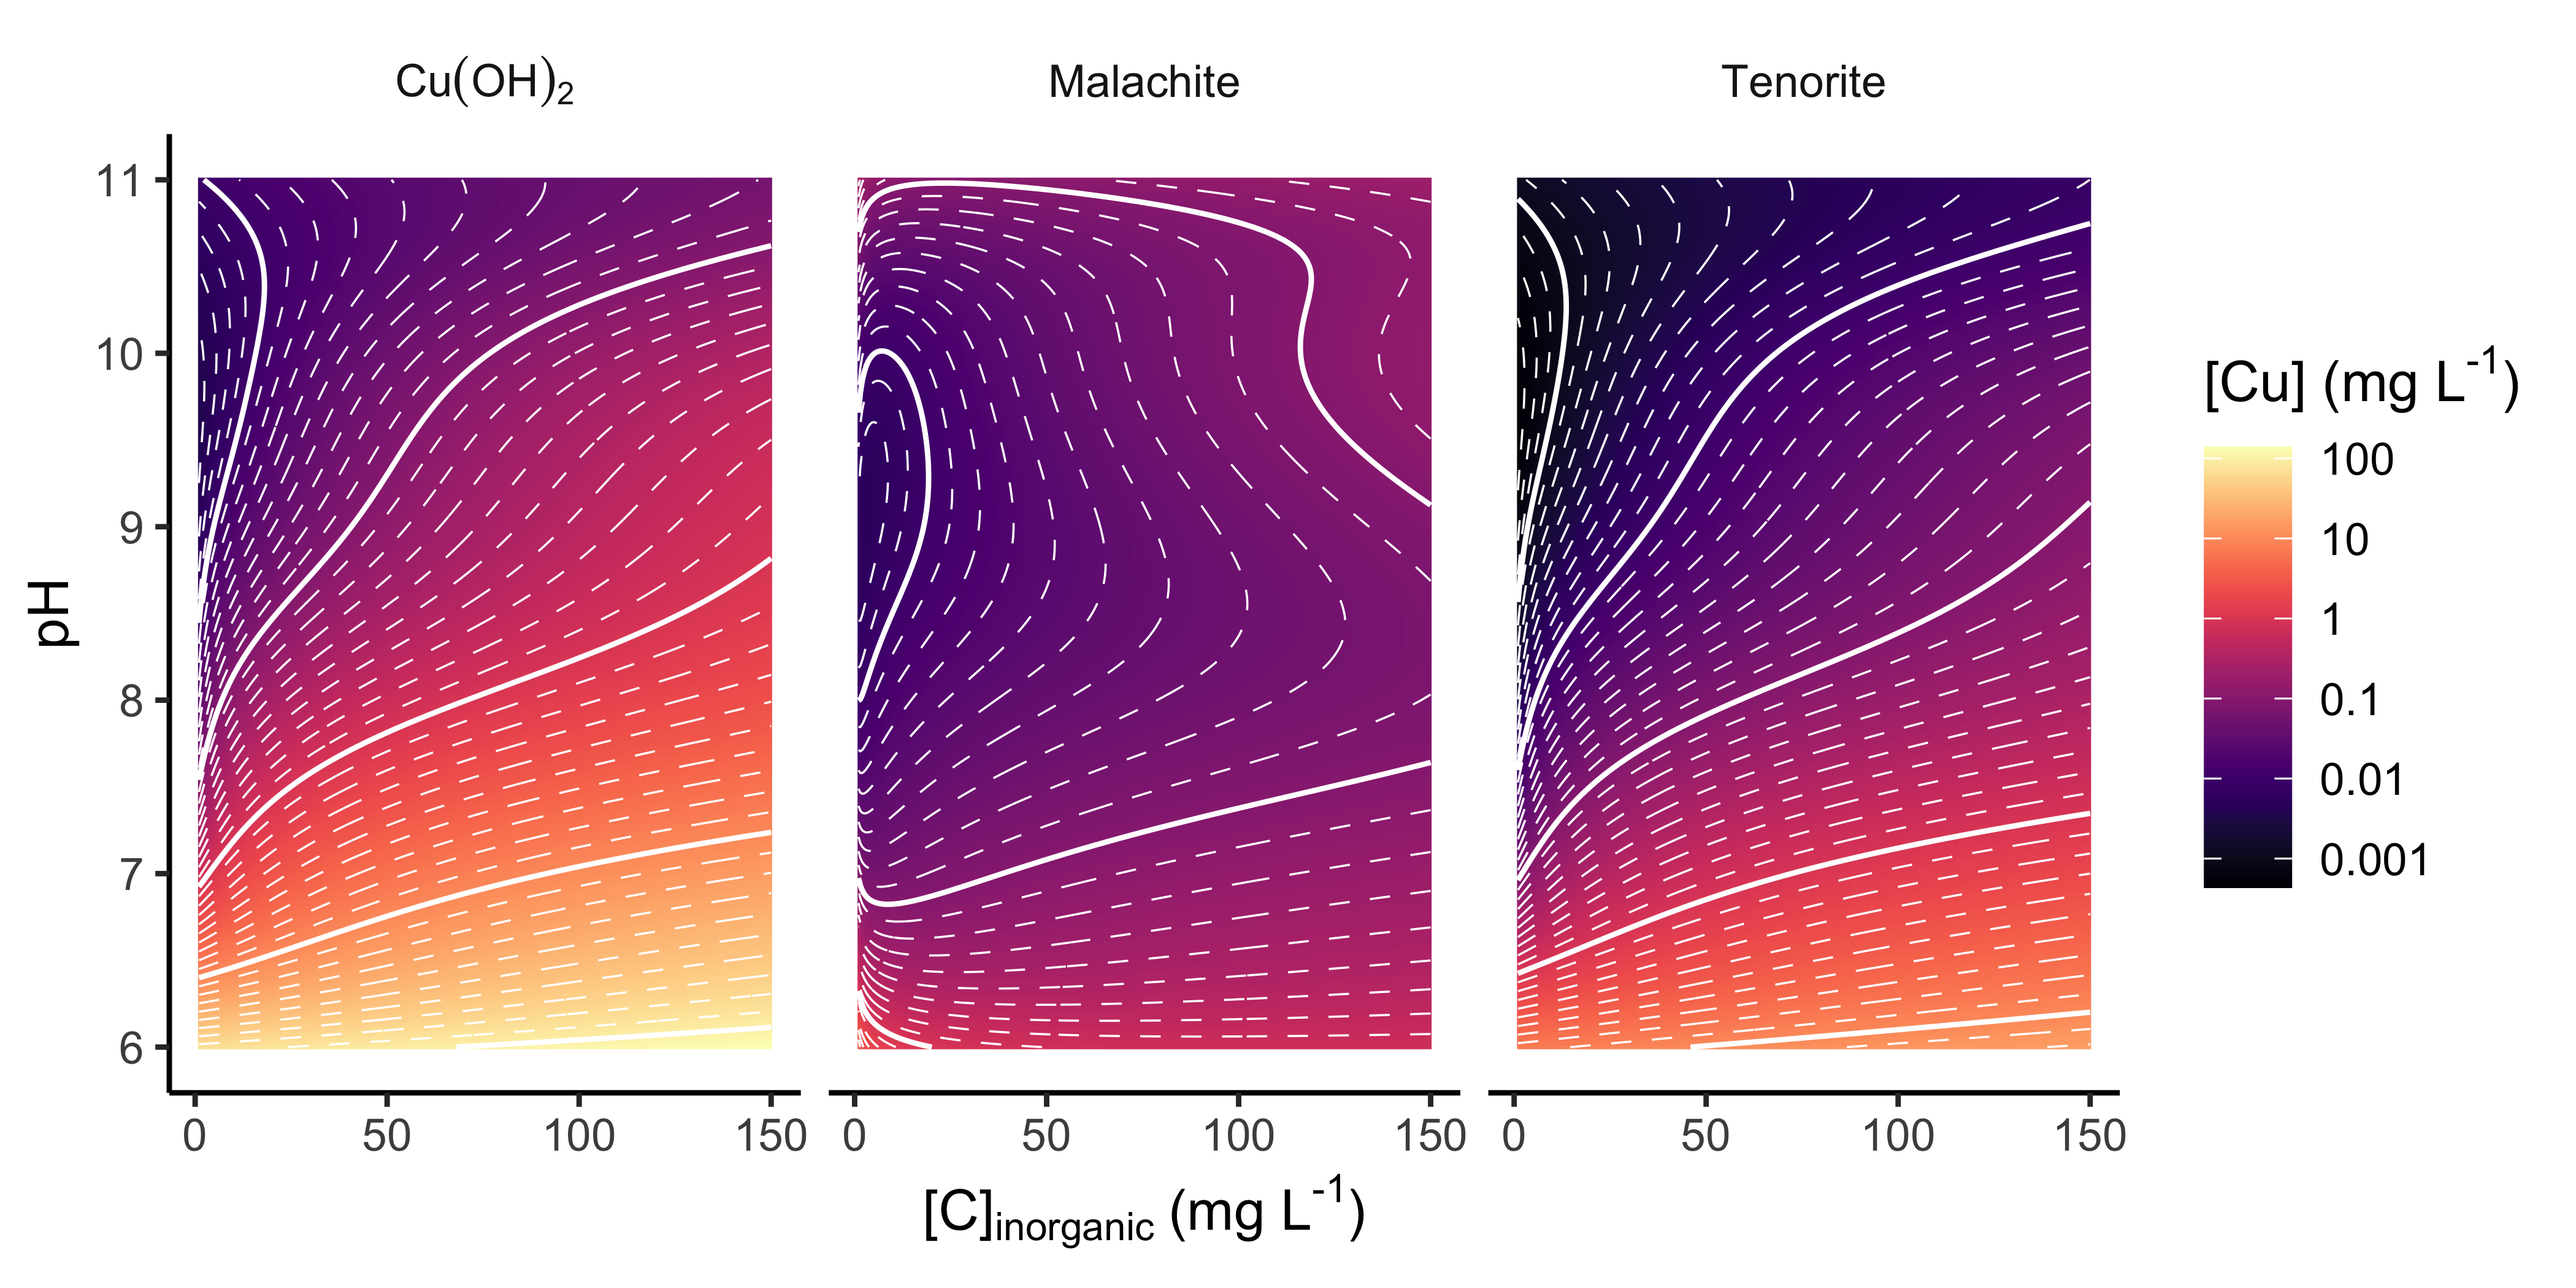
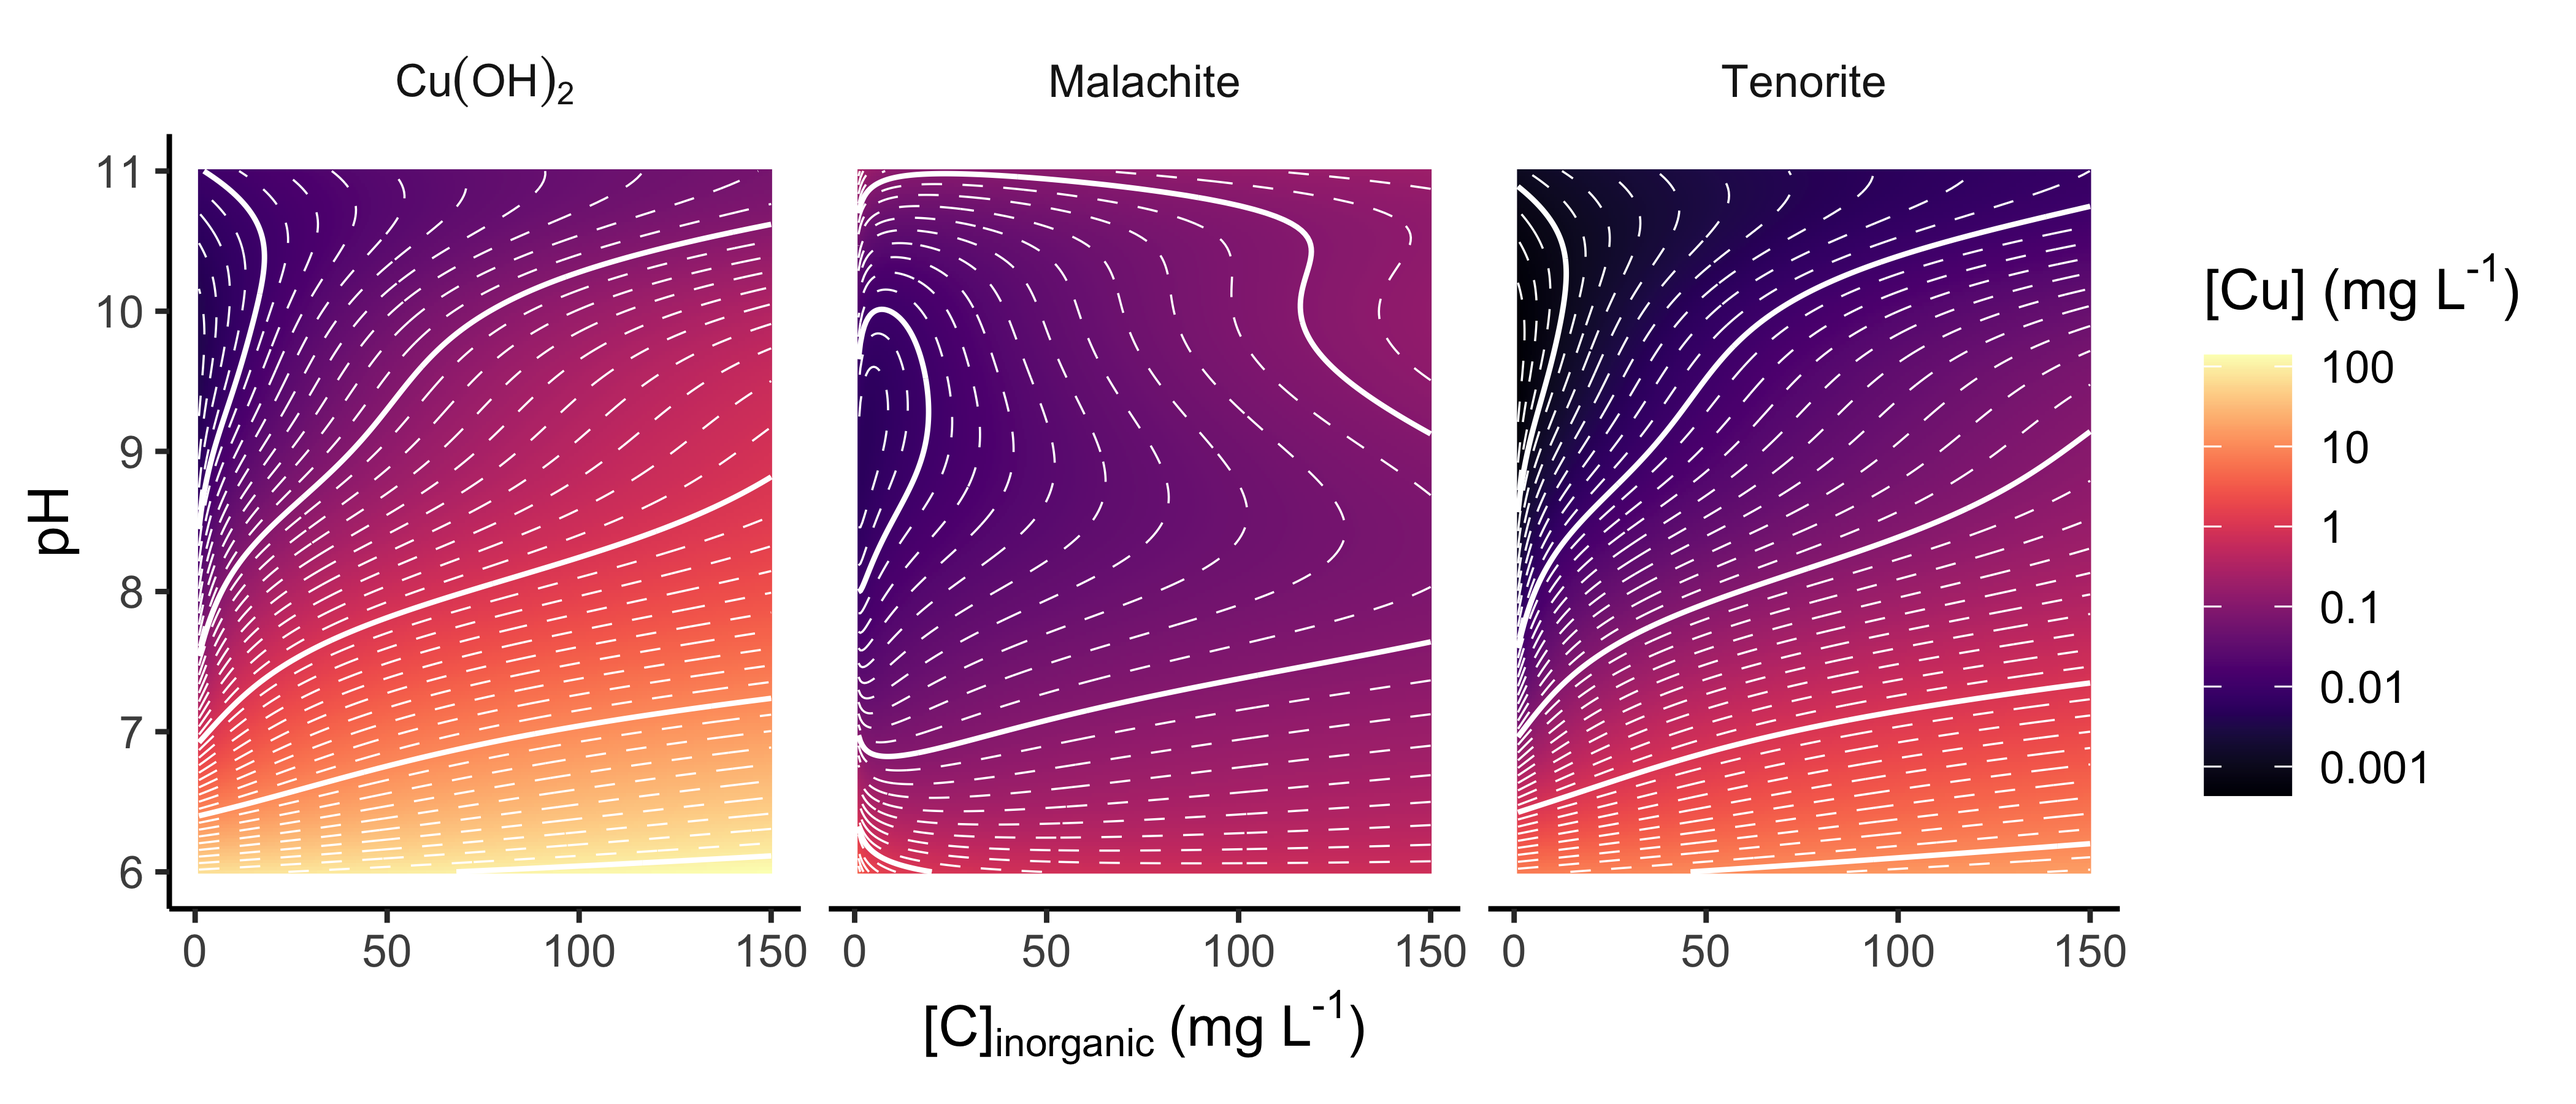
edits to documentation

diff --git a/README.md b/README.md
@@ -26,17 +26,19 @@ remotes::install_github("bentrueman/pbcusol")
 
 ## Example
 
-For this example, you will also need the `tidyverse` family of packages.
+For this example, you will need the `tidyverse` family of packages,
+along with `plyr::round_any()`, and `viridis::scale_fill_viridis()`.
 
 ``` r
 library("pbcusol")
-library("plyr")
 library("tidyverse")
+library("viridis")
 ```
 
 Use `cu_sol()` to calculate the equlibrium solubility of multiple copper
 phases that occur in drinking water systems, over a wide range of pH
-values and dissolved inorganic carbon concentrations.
+values and dissolved inorganic carbon concentrations. N.B., evaluate on
+a smaller grid to speed this up\!
 
 ``` r
 solutions_cu <- list("Cu(OH)2", "Tenorite", "Malachite") %>%
@@ -51,7 +53,8 @@ solutions_cu <- list("Cu(OH)2", "Tenorite", "Malachite") %>%
   )
 ```
 
-Plot the data:
+Plot the data (n.b., plots shown here will differ slightly from those
+the following code generates).
 
 ``` r
 solutions_cu %>% 
@@ -68,9 +71,7 @@ solutions_cu %>%
 
 <img src="man/figures/README-cu-plot-1.png" width="100%" />
 
-Use `pb_sol()` to calculate the equlibrium solubility of multiple lead
-phases that occur in drinking water systems, over a wide range of pH
-values and dissolved inorganic carbon concentrations.
+Use `pb_sol()` to do the same for lead.
 
 ``` r
 solutions_pb <- tibble(
@@ -108,6 +109,9 @@ solutions_pb %>%
 
 <img src="man/figures/README-pb-plot-1.png" width="100%" />
 
+The helper function `calculate_dic()` may be useful for converting
+alkalinity to dissolved inorganic carbon.
+
 # References
 
 Charlton, S.R., and Parkhurst, D.L, 2011, Modules based on the
@@ -123,8 +127,8 @@ reaction, one-dimensional transport, and inverse geochemical
 calculations: U.S. Geological Survey Techniques and Methods, book 6,
 chap. A43, 497 p. <http://pubs.usgs.gov/tm/06/a43>.
 
-Schock, M. R., D. A Lytle, and J. A. Clement. 1995. “Effect of pH, Dic,
-Orthophosphate and Sulfate on Drinking Water Cuprosolvency.” National
+Schock, M. R., D. A Lytle, and J. A. Clement. 1995. “Effect of pH, DIC,
+orthophosphate and sulfate on drinking water cuprosolvency.” National
 Risk Management Research Lab., Cincinnati, OH (United States).
 
 Schock, M. R., I. Wagner, and R. J. Oliphant. 1996. “Corrosion and
